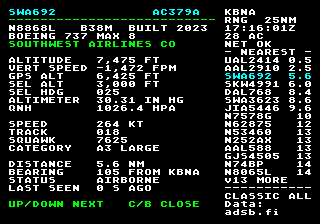
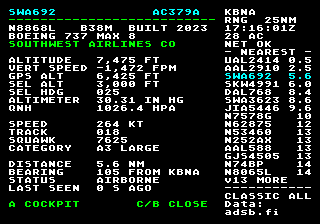
Manual: Cockpit View page; credit the elevation data
A new page 14 shows the cockpit HUD with callouts and explains getting in
and out; the controls, details and troubleshooting pages mention it. The
credits add AWS Terrain Tiles with each source's required attribution
(tilezen/joerd docs/attribution.md), as do docs/relay.md and the README,
and the cockpit HUD shows ELEVATION DATA: AWS TERRAIN TILES (B BACK TO
RADAR moves up beside the fps). Still 20 pages.

diff --git a/src/cockpit.c b/src/cockpit.c
@@ -88,8 +88,8 @@ static void hud(u16 part)
         hud_text(21, s);
         break;
     default:
-        sprintf(s, "TERRAIN %u M CELLS   %u.%u FPS", hdr.cell_m, fps10 / 10, fps10 % 10);
-        hud_text(23, s);
+        sprintf(s, "%2u.%u FPS", fps10 / 10, fps10 % 10);
+        VDP_drawText(s, 30, 23);            /* right of "B  BACK TO RADAR" */
         break;
     }
 }
@@ -238,7 +238,8 @@ void cockpit_run(const u8 icao_in[3])
     PAL_setColor(PAL1 * 16 + 15, 0xEEE);    /* HUD white, callsign cyan, warnings amber */
     PAL_setColor(PAL2 * 16 + 15, 0xEE0);
     PAL_setColor(PAL3 * 16 + 15, 0x0AE);
-    hud_text(26, "B  BACK TO RADAR");
+    hud_text(23, "B  BACK TO RADAR");
+    hud_text(25, "ELEVATION DATA: AWS TERRAIN TILES");   /* attribution, as the radar credits adsb.fi */
     wait_release();
 
     if (!load_terrain()) {

diff --git a/lode/print/manual.md b/lode/print/manual.md
@@ -16,18 +16,20 @@ flowchart LR
 | 2 | handling | care, seizure warning, projection/plasma burn-in, not-for-navigation note |
 | 3 | contents | `outline(depth: 1)`, thank-you line |
 | 4–5 | starting-up | Model 1 top + front with callouts, 3 steps, first time, if nothing appears, what you need |
-| 6–7 | controls | pad drawing + 5 keys, six-button note; range steps + `zoom` shot (page 7) |
+| 6–7 | controls | pad drawing + 5 keys (A: cockpit from the details), six-button note (X theme, Y cockpit); range steps + `zoom` shot (page 7) |
 | 8 | relay | what the relay is, docker command, same-release rule, URL rules, adsb.fi fair use |
 | 9–10 | setup | `setup` shot + 7 keys (CONTROLS, RESET), `keyboard` shot, persistence, airport count |
 | 11–12 | scope | `radar` shot + 7 keys (traffic list, theme/tags/data), tag colours table, stale/drop |
-| 13 | details | `popup` shot + 5 keys (callsign, aircraft, altitude, movement, position) |
-| 14 | themes | Classic + STARS shots |
-| 15 | troubleshooting | boot/panel messages table (incl. RELAY MISMATCH / RELAY VER?), Wi-Fi sleep note |
-| 16 | credits | credits grid, version, URL, disclaimer |
-| 17–19 | (pad) | Notes |
+| 13 | details | `popup` shot + 5 keys (callsign, aircraft, altitude, movement, position), A → cockpit |
+| 14 | cockpit | `cockpit` shot (70%) + 5 keys (view, callsign/status, altitude, movement, credit), "what you're seeing" note |
+| 15 | themes | Classic + STARS shots |
+| 16 | troubleshooting | boot/panel messages table (incl. RELAY MISMATCH / RELAY VER?, NO TERRAIN / LOST THE AIRCRAFT), Wi-Fi sleep note |
+| 17 | credits | credits grid (incl. ELEVATION), the terrain sources' required attribution in 5.6 pt, version, URL, disclaimer |
+| 18–19 | (pad) | Notes |
 | 20 | — | `back-art`: small scope, wordmark, URL + version, disclaimer |
 
-Callouts on shots that touch the side panel sit at x 215 (the gap between the scope and the panel), so they
+Every page is full: the details, cockpit and troubleshooting pages have no spare lines (an extra line pushed
+each onto a new page, and the manual to 24 pages). Callouts on shots that touch the side panel sit at x 215 (the gap between the scope and the panel), so they
 don't cover panel text. The `controls` page has room left over: page 7 holds only the range steps.
 
 ## Building blocks (`print/manual/lib.typ`)

diff --git a/docs/relay.md b/docs/relay.md
@@ -131,3 +131,19 @@ structs (with offset static asserts) are in [src/arframe.h](../src/arframe.h).
 adsb.fi open data is free for **personal, non-commercial** use, and it requires attribution.
 The cart shows `Data: adsb.fi` in the panel. Keep `-min-interval` at 1 s or more. If several
 carts share one relay, the per-query cache means identical queries cost one upstream call.
+
+The cockpit view's terrain comes from [AWS Terrain Tiles](https://registry.opendata.aws/terrain-tiles/)
+(Mapzen / Tilezen, no key needed); the cart shows `ELEVATION DATA: AWS TERRAIN TILES`. Its sources ask for
+this attribution ([details](https://github.com/tilezen/joerd/blob/master/docs/attribution.md)):
+
+> ArcticDEM terrain data DEM(s) were created from DigitalGlobe, Inc., imagery and funded under National
+> Science Foundation awards 1043681, 1559691, and 1542736; Australia terrain data © Commonwealth of Australia
+> (Geoscience Australia) 2017; Austria terrain data © offene Daten Österreichs – Digitales Geländemodell (DGM)
+> Österreich; Canada terrain data contains information licensed under the Open Government Licence – Canada;
+> Europe terrain data produced using Copernicus data and information funded by the European Union - EU-DEM
+> layers; Global ETOPO1 terrain data U.S. National Oceanic and Atmospheric Administration; Mexico terrain data
+> source: INEGI, Continental relief, 2016; New Zealand terrain data Copyright 2011 Crown copyright (c) Land
+> Information New Zealand and the New Zealand Government (All rights reserved); Norway terrain data ©
+> Kartverket; United Kingdom terrain data © Environment Agency copyright and/or database right 2015. All rights
+> reserved; United States 3DEP (formerly NED) and global GMTED2010 and SRTM terrain data courtesy of the U.S.
+> Geological Survey.

diff --git a/lode/relay/relay.md b/lode/relay/relay.md
@@ -122,7 +122,10 @@ cd relay && go test ./...      # includes mdns_test.go (the cart's exact query)
 ## Terms of use
 adsb.fi open data: personal non-commercial use, at most 1 req/s, attribution required. The relay sends
 `User-Agent: mega_wifi_radar-relay`, and `source = 1` makes the console show "Data: adsb.fi".
-AWS Terrain Tiles (Mapzen Terrarium, AWS Open Data): free, no key; attribution to its sources (SRTM, 3DEP,
-GMTED2010, ETOPO1 and others) is required where the data is shown. Not yet credited on screen or in the manual.
+AWS Terrain Tiles (Mapzen Terrarium, AWS Open Data): free, no key. Its attribution doc
+(tilezen/joerd `docs/attribution.md`) has no short form: one credit line per source (ArcticDEM, Australia,
+Austria, Canada, EU-DEM, ETOPO1, Mexico INEGI, LINZ, Kartverket, UK EA, USGS 3DEP/GMTED2010/SRTM), "in a place
+reasonable to the medium". Credited: the cockpit HUD (`ELEVATION DATA: AWS TERRAIN TILES`), the full list in the
+manual's credits (small print), `docs/relay.md` "Data terms", and the README.
 
 Related: [../data/adsb-sources.md](../data/adsb-sources.md), [../net/net-layer.md](../net/net-layer.md).

diff --git a/README.md b/README.md
@@ -86,6 +86,10 @@ release; `:0.2.0` pins one). A mismatched pair says so on screen instead of work
   The ROM credits the source on screen. The recorded snapshots in `relay/testdata/` and
   `res/fake/` are adsb.fi data; see [relay/testdata/NOTICE.md](relay/testdata/NOTICE.md).
 - Airport table: [OurAirports](https://ourairports.com/data/) (public domain).
+- Cockpit view terrain: elevation from [AWS Terrain Tiles](https://registry.opendata.aws/terrain-tiles/)
+  (Mapzen / Tilezen), resampled and coloured by the relay. The cockpit view credits it on screen; the
+  manual's credits and [docs/relay.md](docs/relay.md#data-terms) carry the
+  [required attribution](https://github.com/tilezen/joerd/blob/master/docs/attribution.md) for each source.
 
 Not for navigation or any operational use.
 

diff --git a/lode/plans/cockpit-mode.md b/lode/plans/cockpit-mode.md
@@ -8,9 +8,8 @@ release. The design, as built, is in [../ui/cockpit.md](../ui/cockpit.md); this 
 the speed spike's measurements.
 
 ## Left before 0.3.0
-1. **Manual + docs:** a cockpit page in `print/manual/`, `docs/` done; credit the elevation sources (AWS Terrain
-   Tiles: SRTM, 3DEP, GMTED2010, ETOPO1...) in the manual and docs as their terms ask.
-2. **Release 0.3.0** (contract v3: relay and cart together).
+1. **Release 0.3.0** (contract v3: relay and cart together). The manual (page 14, *Cockpit View*), docs and the
+   elevation credits (HUD, manual, docs, README) are in place.
 
 ## Done on the cart
 Byte writes to the VDP duplicate the byte (solid colours). 16-22 fps. A whole patch takes ~2.5 s (~13 KB/s); strips

diff --git a/lode/ui/cockpit.md b/lode/ui/cockpit.md
@@ -103,7 +103,8 @@ column's rows are 4 bytes apart: with the VDP auto-increment at 4, a vertical sp
 
 ## HUD (window rows 16-27)
 Row 17 callsign (PAL2 cyan) + status (`LIVE`, amber `NO SIGNAL` / `TERRAIN...` / `SIGNAL LOST`); 19 altitude, ground
-speed; 21 vertical speed, heading, bank; 23 cell size, fps; 26 `B  BACK TO RADAR`. One line per frame. On return,
+speed; 21 vertical speed, heading, bank; 23 `B  BACK TO RADAR` + fps (col 30); 25 the elevation credit
+(`ELEVATION DATA: AWS TERRAIN TILES`, required attribution; exit messages overwrite it). One line per frame. On return,
 the radar selects the same aircraft once the first poll has it.
 
 ## Emulator

diff --git a/CHANGELOG.md b/CHANGELOG.md
@@ -16,6 +16,11 @@ FEATURES:
     built from public elevation tiles (AWS Terrain Tiles), and the aircraft's position in it. The relay
     needs HTTPS access to `s3.amazonaws.com` for terrain; without it the view shows flat ground.
 
+IMPROVEMENTS:
+
+  * **print:** the manual has a *Cockpit View* page, the controls and troubleshooting pages cover
+    it, and the credits carry the elevation data's attribution (also on the cockpit screen).
+
 BUG FIXES:
 
   * **radar:** the cartridge now recovers when the relay's computer goes away mid-session (lid closed,
